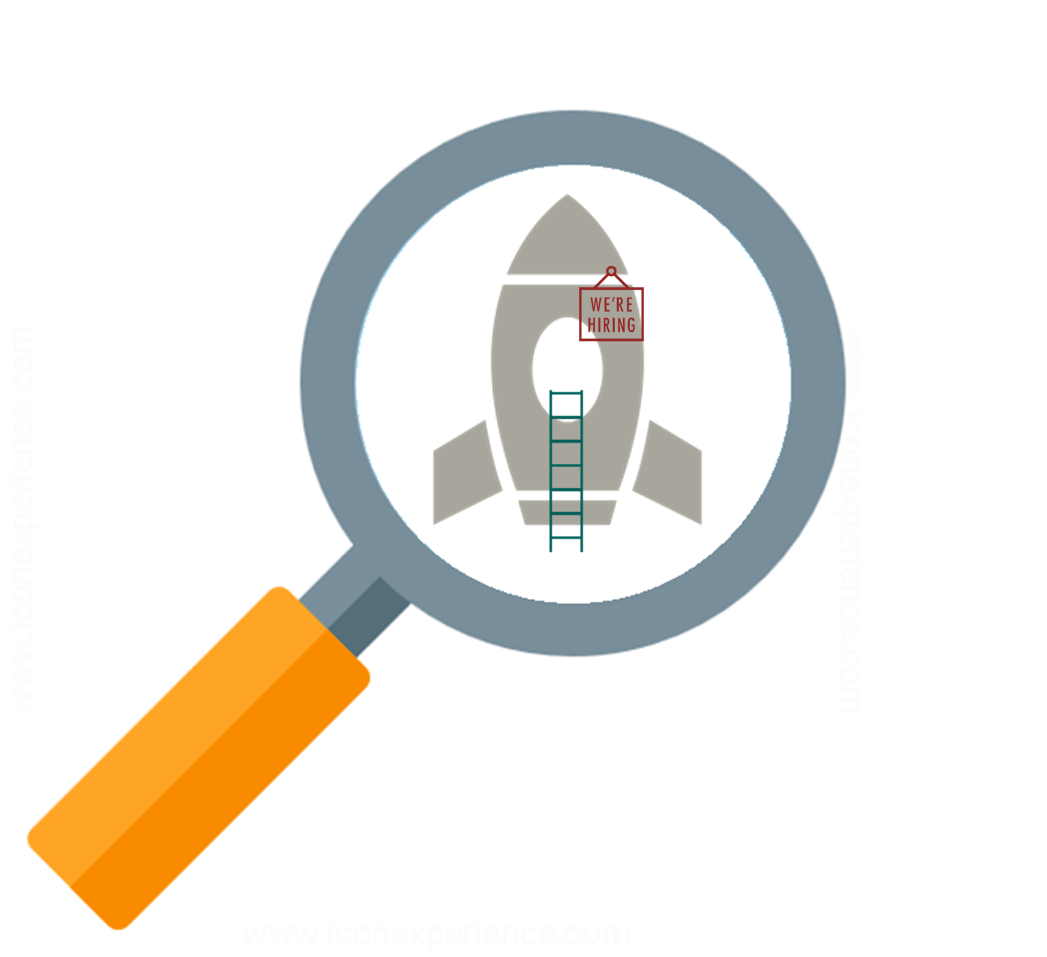
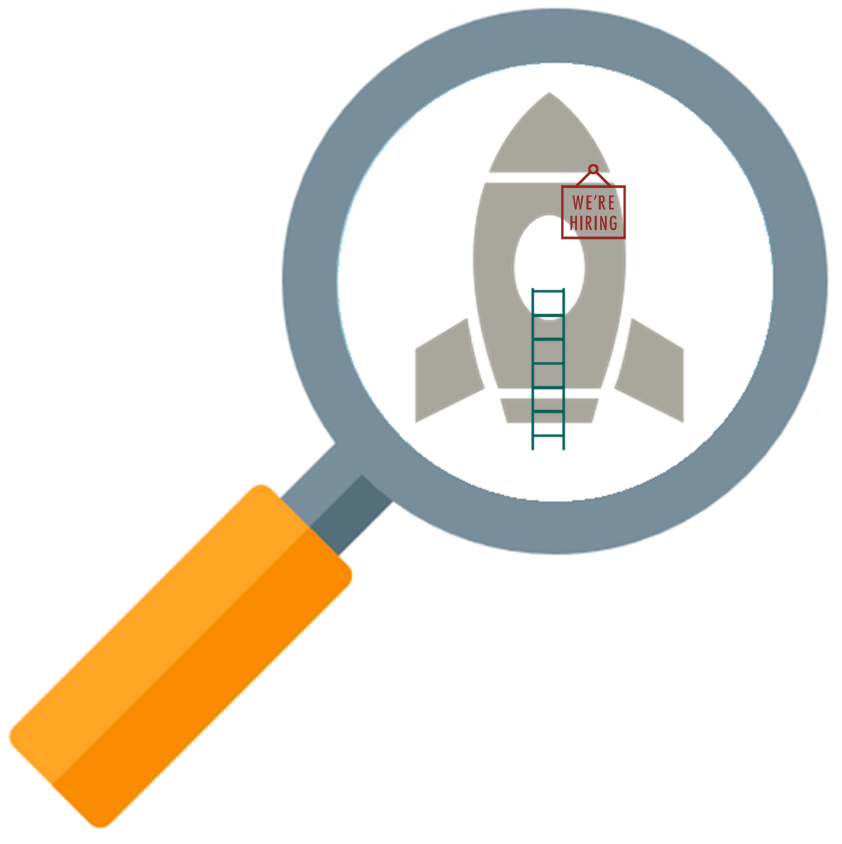
Changed pic size and readme
- downsized pic
- changed tabs to spaces in readme

diff --git a/README.rst b/README.rst
@@ -1,4 +1,4 @@
-.. image:: images/startup_job_scraping.png
+.. image:: images/startup_job_scraping.min.png
     :width: 200
 =================
 
@@ -21,13 +21,13 @@ Functionalities of startupscraper
 
 Basic example of scraping for startup jobs with default values (as found in scrape.py):
 
-	from startupscraper.scraper import StartupList
-	
-	startuplist = StartupList()
-	startuplist.locate_startups(names=['startupranking'], depth=3)
-	startuplist.create_startups()
-	startuplist.scrape_startups()
-	startuplist.save_results('results.csv')
+    from startupscraper.scraper import StartupList
+
+    startuplist = StartupList()
+    startuplist.locate_startups(names=['startupranking'], depth=3)
+    startuplist.create_startups()
+    startuplist.scrape_startups()
+    startuplist.save_results('results.csv')
 
 More particularly:
 
